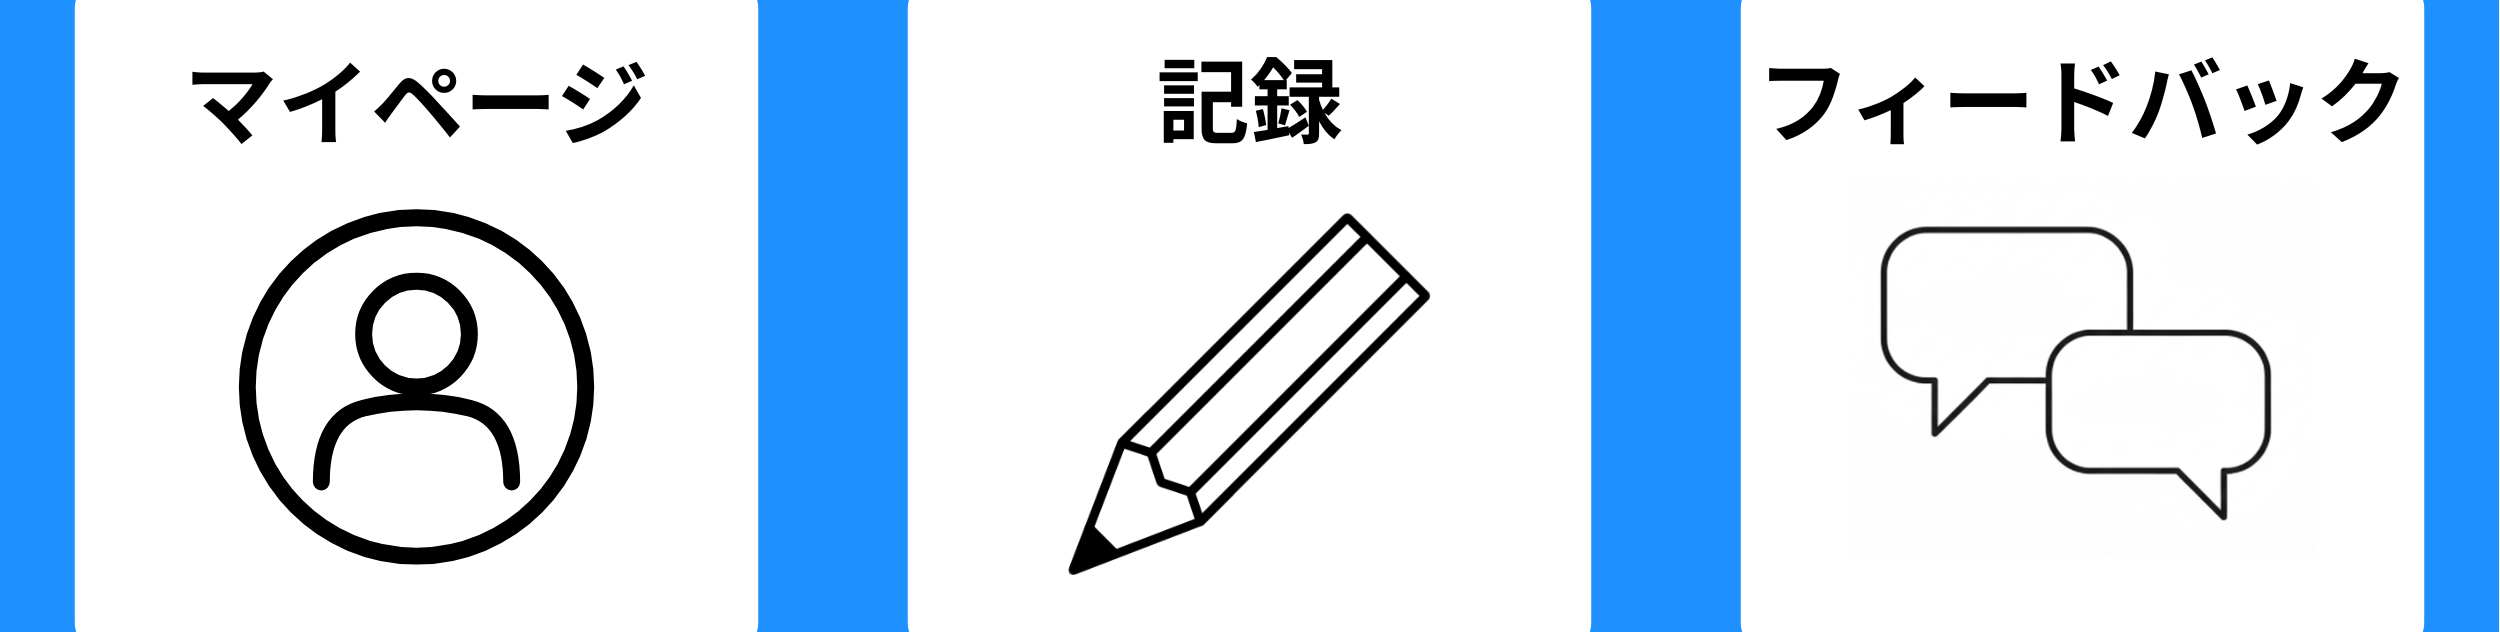
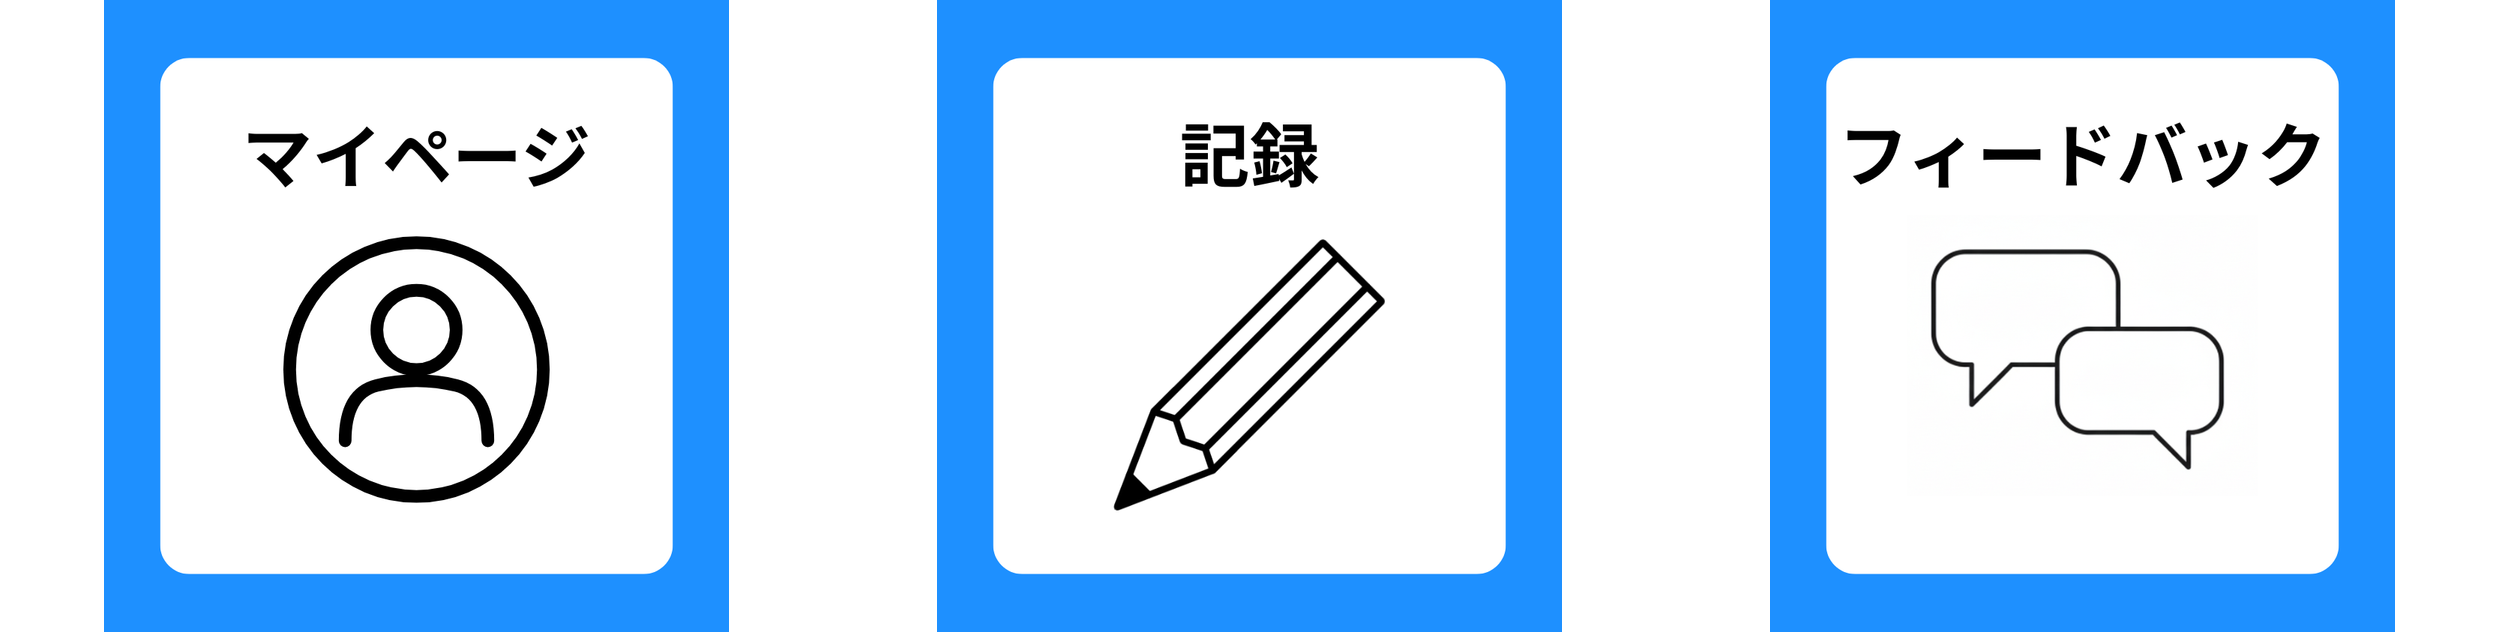
🔧 Fix rich menu image aspect ratio - change from 'cover' to 'contain' to prevent vertical compression

diff --git a/update-richmenu-images.js b/update-richmenu-images.js
@@ -10,17 +10,26 @@ async function createNewRichMenuImage() {
     const menuHeight = 632;
     const buttonWidth = Math.floor(menuWidth / 3); // 833px each
     
-    // 各画像を読み込んでリサイズ
+    // 各画像を読み込んでリサイズ（aspect ratioを維持して適切にフィット）
     const image1 = await sharp('./1.png')
-      .resize(buttonWidth, menuHeight, { fit: 'cover' })
+      .resize(buttonWidth, menuHeight, { 
+        fit: 'contain',  // アスペクト比を維持
+        background: { r: 255, g: 255, b: 255, alpha: 1 } // 白背景
+      })
       .toBuffer();
     
     const image2 = await sharp('./2.png')
-      .resize(buttonWidth, menuHeight, { fit: 'cover' })
+      .resize(buttonWidth, menuHeight, { 
+        fit: 'contain',
+        background: { r: 255, g: 255, b: 255, alpha: 1 }
+      })
       .toBuffer();
     
     const image3 = await sharp('./3.png')
-      .resize(buttonWidth, menuHeight, { fit: 'cover' })
+      .resize(buttonWidth, menuHeight, { 
+        fit: 'contain',
+        background: { r: 255, g: 255, b: 255, alpha: 1 }
+      })
       .toBuffer();
     
     // 3つの画像を横に結合
